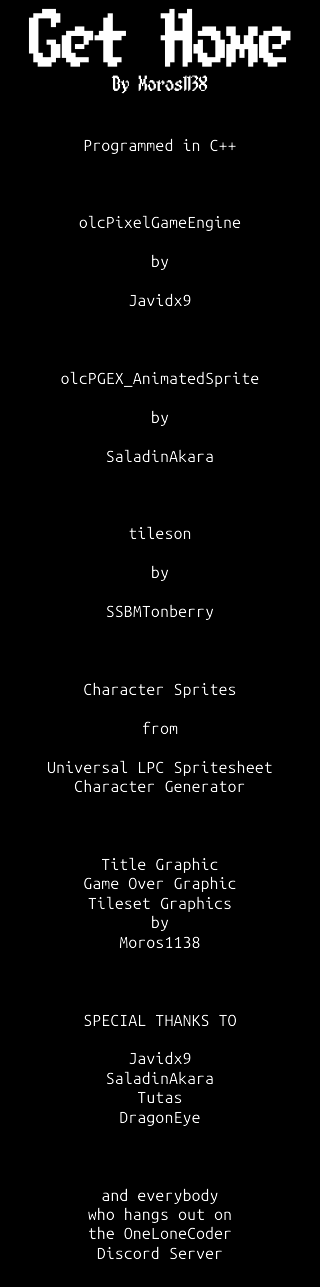
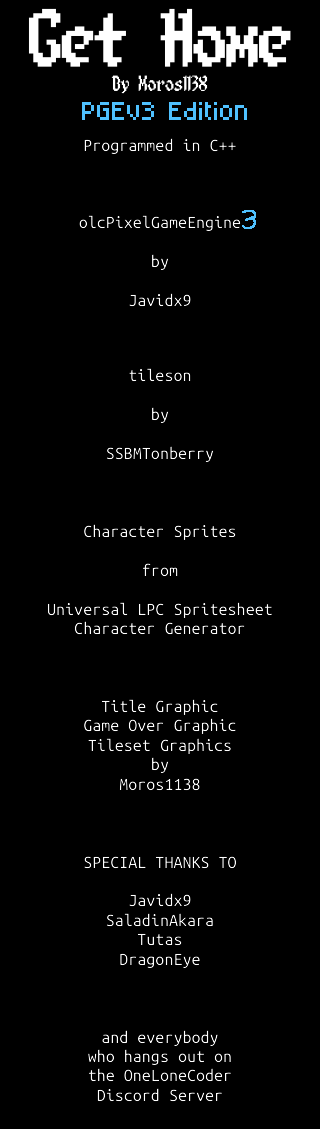
update credits, start in splash mode

diff --git a/src/main.cpp b/src/main.cpp
@@ -112,8 +112,7 @@ public:
 		tTileset = tMap->getTileset("olcBTB_tileset1");
 		lObjects = tMap->getLayer("objects");
 		
-		// game.state = SPLASH;
-		StartGame(30.0f);
+		game.state = SPLASH;
 
 		return true;
 	}
